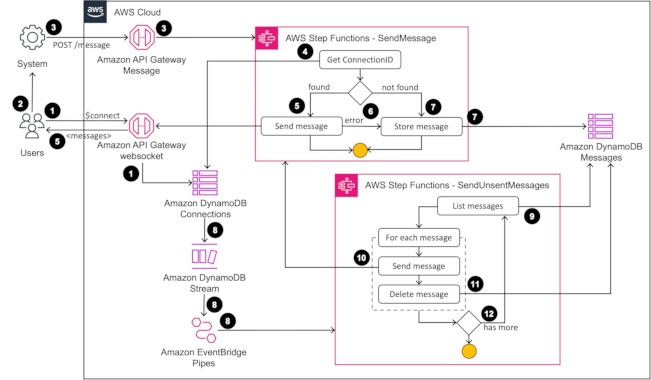
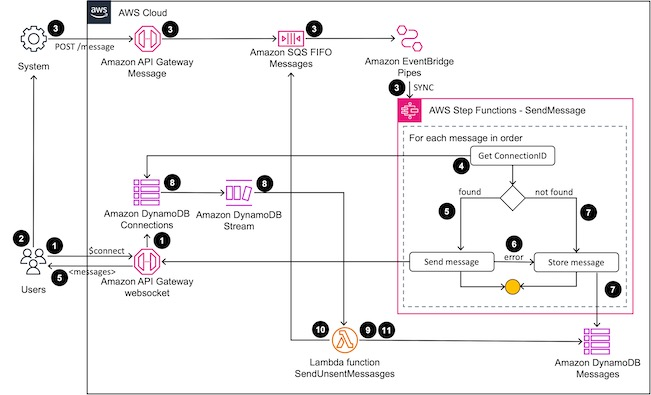
doc: update README with the new architecture

Changed region(s): [[0.0, 0.0, 1.0, 1.0]]

diff --git a/README.md b/README.md
@@ -10,22 +10,25 @@ reconnects.
 
 This solutions has three components:
 
-* The messaging gateway
+- The messaging gateway
 
   `lib/gateway.ts` - the gateway construct
 
+  `lib/gateway.SendUnsentMessages.mjs` - the Lambda function to enqueue the
+  pending messages when the client connects
+
   `assets/*.asl` - the AWS Step Function workflows
 
-* The authentication component
+- The authentication component
 
   `lib/authentication.ts` - the authentication construct
 
   `lib/authentication.Generator.mjs` - the temporary token generator AWS Lambda
   function implementation
 
-  `lib/authentication.Authorizer.mjs` - the AWS Lambda authorizer 
+  `lib/authentication.Authorizer.mjs` - the AWS Lambda authorizer
 
-* A sample application to simulate a long running async task 
+- A sample application to simulate a long running async task
 
   `lib/application.ts` - the sample application construct
 
@@ -44,10 +47,12 @@ connection ID are stored at the Connections table.
 2\) The user interacts with a system that gives asynchronous responses or
 notifications.
 
-3\) The system produces a result or notification which is sent to the Messaging 
+3\) The system produces a result or notification which is sent to the Messaging
 gateway through the _Message_ API Gateway. The authorization is validated
-through AWS Identity and Access Management (IAM). The API Gateway starts the
-_SendMessage_ Step Function to try to deliver the message.
+through AWS Identity and Access Management (IAM). The API Gateway enqueues the
+message at the _Messages_ FIFO SQS queue to keep the messages ordered. Through
+an EventBridge Pipe, the _SendMessage_ Step Function is started to try to
+deliver the enqueued message.
 
 4\) The workflow retrieves the connection ID for the destination user.
 
@@ -60,18 +65,26 @@ the user. If it is successful, the workflow finishes here.
 stored at the _Messages_ table to be delivered when the user reconnects.
 
 8\) When the users connects (step 1), the connection ID is stored at the
-_Connections_ table. Throught DynamoDB streams, a EventBridge pipe gets the 
-event and starts the _SendUnsentMessages_ Step Function.
+_Connections_ table. Throught DynamoDB streams, the Lambda function
+_SendUnsentMessages_ is invoked.
 
-9\) The workflow retrieves the pending messages for the user.
+9\) The _SendUnsetMessages_ function retrieves the pending messages for the
+user.
 
-10\) For each message, the workflow starts the _SendMessage_ Step Function,
-which goes through the step 4 to 7 for the message.
+10\) The Lambda function sends each message to the _Messages_ queue, which
+triggers the _SendMessage_ Step Function, as described from the step 3 to 7.
 
-11\) The message is deleted from the _Messages_ table.
+11\) The message is deleted from the _Messages_ table if it is successfully
+sent to the queue.
 
-12\) If there is more messages to read for the user, the steps 9 to 11 is
-repeated.
+**Notes**:
+
+* The payload to the message gateway is a JSON object with the following
+  properties:
+
+  `userId` {string}: the user ID from the Cognito User Pool.
+  
+  `message` {string}: the message to send.
 
 ## Authentication component
 
@@ -79,7 +92,7 @@ repeated.
 
 1\) The users authenticate at an Cognito user pool to get an ID token.
 
-2\) To authenticate at the messages WebSocket, the users request a single use 
+2\) To authenticate at the messages WebSocket, the users request a single use
 temporary token passing the ID token at the Authorization header.
 
 3\) The API Gateway validates the ID token at the Cognito user pool.
@@ -87,23 +100,23 @@ temporary token passing the ID token at the Authorization header.
 4\) API Gateway invokes the Lambda function to generate the single use temporary
 token.
 
-5\) The _Generator_ Lambda function creates a JSON token with the issuer and 
-audience being the authentication service, the subject iwiths the user ID, the 
+5\) The _Generator_ Lambda function creates a JSON token with the issuer and
+audience being the authentication service, the subject iwiths the user ID, the
 username with the preferred username, and the token expires after 30 seconds
 This token is encrypt using a KMS key.
 
 6\) The encrypted token in base64 is stored at the _TempKeys_ DynamoDB table
 with a ttl attribute with the token expiration value.
 
-7\) The user connects to the messages WebSocket passing the single use temporary 
-token at the query string “token”. The API Gateway invokes the Lambda authorizer 
+7\) The user connects to the messages WebSocket passing the single use temporary
+token at the query string “token”. The API Gateway invokes the Lambda authorizer
 to validate the token. The Lambda authorizer deletes the token from the
 _TempKeys_ table requesting to return the old record: if the returned record is
 empty, the access is denied.
 
-8\) The Lambda authorizer decrypts the single use temporary token and validates 
+8\) The Lambda authorizer decrypts the single use temporary token and validates
 the issuer, audience, and expiration. If there isn't any problem, the Lambda
-authorizer returns a policy authorizing the connections with the principal as 
+authorizer returns a policy authorizing the connections with the principal as
 the user ID and the username at the context.
 
 ## Deployment and tests
@@ -123,7 +136,7 @@ cdk deploy
 To test, you will use a Node.js script (`bin/msg.mjs`). Follow these steps:
 
 1. Create a user at the Cognito user pool while defining ther user's password:
-   
+
    `node bin/msg.mjs create-user -p <password>`
 
 2. Authenticate the user:
@@ -150,6 +163,7 @@ To test, you will use a Node.js script (`bin/msg.mjs`). Follow these steps:
    messages that were sent in step 6.
 
 ### Clean up
+
 Run:
 
 ```sh
